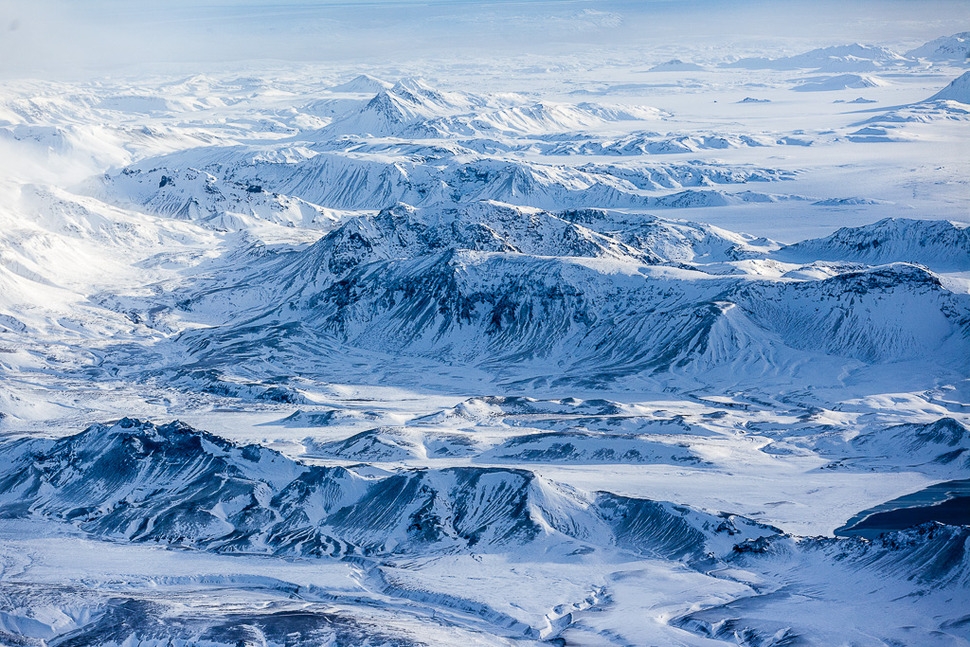
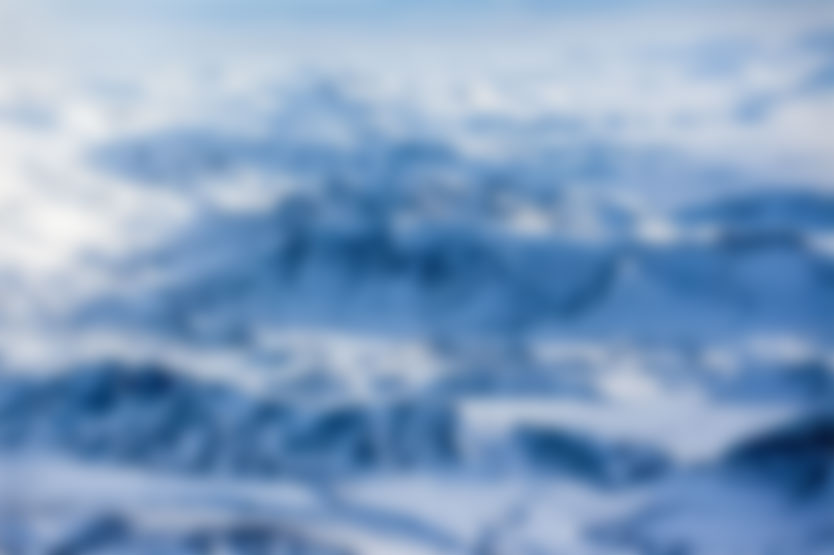
headers change on various pages

diff --git a/scss/_hero.scss b/scss/_hero.scss
@@ -1,24 +1,11 @@
 .primary_hero {
-  // background: url('/project1/assets/img/iceball.jpg'); /*Image created by me*/
-  // background: url('/project1/assets/img/surfgirl.jpg');
+  background: url('/project1/assets/img/iceball.jpg'); /*Image created by me*/
   background-position: 49% -3%;
   background-repeat: no-repeat;
   background-attachment: fixed; /*CSS alternative to a JS parallax background, helps scoll performance of the site*/
   margin-top: -20px;
   position: relative;
   height: 350px;
-}
-
-.hero {
-  position: absolute;
-  top: 0px;
-  left: 0px;
-  right: 0px;
-  bottom: 0px;
-  margin: auto;
-  width: 50%;
-  height: auto;
-  min-width: 960px;
 }
 
 .primary_hero:before {
@@ -45,7 +32,7 @@
 }
 
 .primary_title p {
-  font-family: 'BebasNeue', 'Georgia', sans-serif;
+  font-family: 'Abel', 'Georgia', sans-serif;
   // transform: rotate(-2.5deg);
   text-transform: uppercase;
   letter-spacing: 0.28em;
@@ -70,7 +57,7 @@
 @media all and (min-width: 400px) {
 
   .primary_hero {
-    height: 500px;
+    height: 550px;
   }
 
   .primary_title {

diff --git a/scss/_header.scss b/scss/_header.scss
@@ -9,18 +9,6 @@
   color: #00CD9B;
 }
 
-/*Styles for SVG logo*/
-.upper, .lower {
-  -moz-transition:all 1s ease-in-out;
-  -o-transition:all 1s ease-in-out;
-  -webkit-transition:all 1s ease-in-out;
-  transition: all 1s ease-in-out;
-}
-
-.logo:hover .lower { fill: #FFF; }
-.logo:hover .upper { fill: #00CD9B; stroke: #00CD9B; }
-/*End of SVG logo styles*/
-
 .logo_text {
   width: 160px;
   font-family: 'goodfoot', arial;
@@ -70,7 +58,17 @@
   border-color: #DDD;
 }
 
-.l_main_header {
+.l_index_header {
+  // background: rgba(0, 0, 0, 0.75);
+  position: absolute;
+  top: 0px;
+  right: 0px;
+  left: 0px;
+  z-index: 1030;
+  margin-bottom: 0px;
+}
+
+.l_secondary_header {
   background: rgba(0, 0, 0, 0.75);
   position: absolute;
   top: 0px;

diff --git a/scss/_layout.scss b/scss/_layout.scss
@@ -1,16 +1,16 @@
 main {
   min-height: 90%;
   @include column(12);
-  background-image: url('/project1/assets/img/bg.jpg');
-  filter: url('#blur');
-  filter: blur(5px);
-  background-size: cover;
-  background-repeat: no-repeat;
+  // background-image: url('/project1/assets/img/bg.jpg');
+  // // filter: url('#blur');
+  // // filter: blur(5px);
+  // background-size: cover;
+  // background-repeat: no-repeat;
   height: auto;
   margin-top: 100px;
-  // background: #E6E6E6;
+  background: #E6E6E6;
 }
-// 
+//
 // .glass::before {
 //     display: block;
 //     width: 100%;
@@ -46,7 +46,7 @@ aside {
 }
 
 header {
-  background-color: #333;
+  // background-color: #333;
 }
 
 img {

diff --git a/scss/_navs.scss b/scss/_navs.scss
@@ -23,7 +23,6 @@ nav li a {
   display: block;
   padding: 15px 0;
   font-size: 16px;
-  color: #CCC;
   text-decoration: none;
 }
 

diff --git a/index.php b/index.php
@@ -1,17 +1,9 @@
 <?php $thisPage="Home";
   include('inc/header.php');
 ?> <!-- Including sections of reusable modular code keeps it clean and readable-->
-<svg xmlns="http://www.w3.org/2000/svg" version="1.1">
-  <defs>
-    <filter id="blur">
-      <feGaussianBlur stdDeviation="5" />
-    </filter>
-  </defs>
-</svg>
   <section class="primary_hero">
-    <img src="/project1/assets/img/surfgirl.jpg" class="hero">
     <div class="primary_title">
-      <p>The ultimate tour for those who explore, who want to live a life of adventure. Make this your story. </p>
+      <p>Find your escape</p>
   </section>
   <main class="main_wrapper cf" role="main">
     <div class="glass">

diff --git a/inc/header.php b/inc/header.php
@@ -9,7 +9,11 @@
   <link rel="icon" type="image/png" href="/project1/img/favicon.ico">
 </head>
 <body>
-  <header class="l_main_header">
+  <?php if ($thisPage === "Home") { ?>
+  <header class="l_index_header">
+  <?php } else {?>
+  <header class="l_secondary_header">
+  <?php } ?>
     <div class="logo">
       <a href="/project1/index.php">
         <p class="logo_text">breaking the ice</p>
